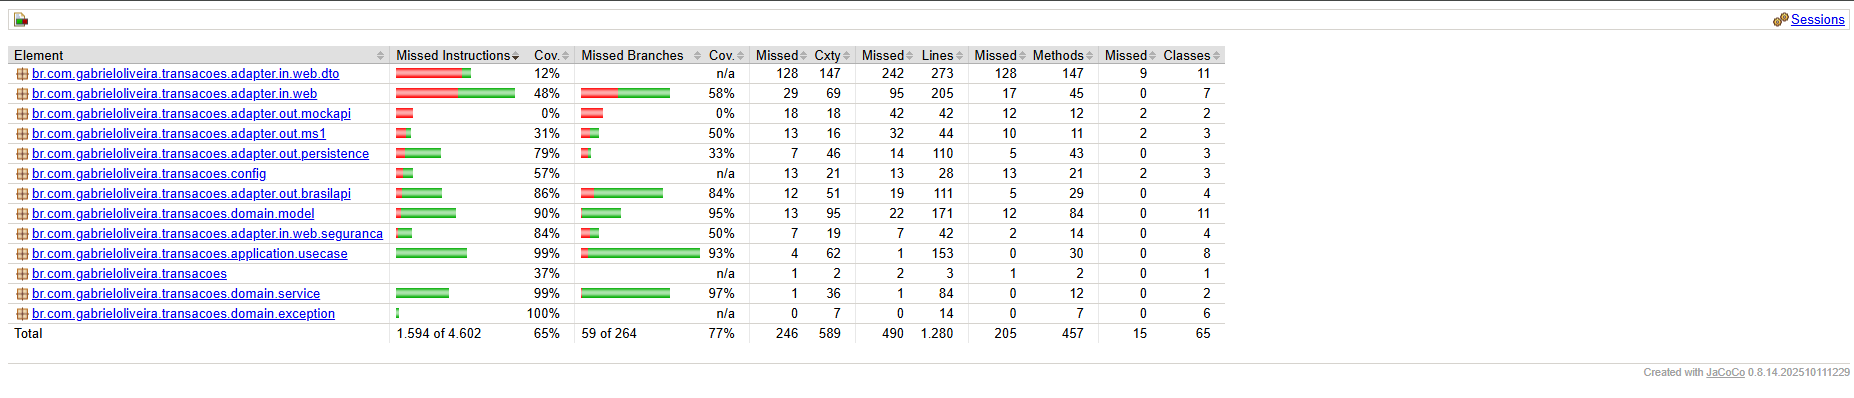
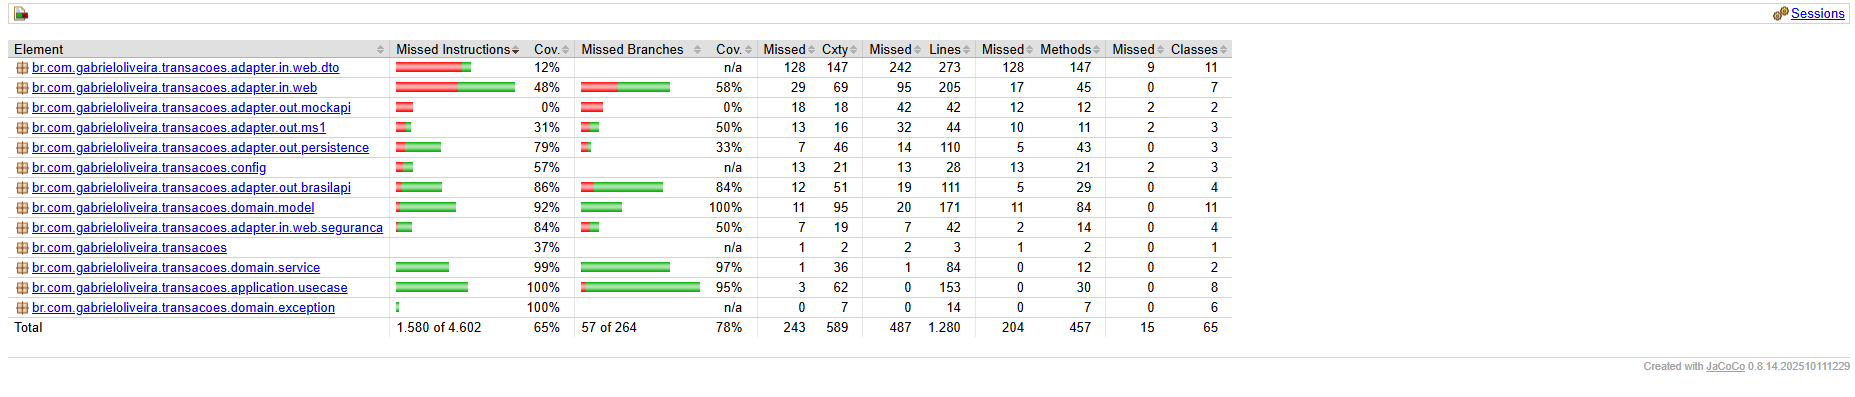
test: revisao da fase 14 com testes que faltavam e cobertura minima no build
- estorno: teste da regra "estorno nao pode ser estornado" e mensagem conferida
  no teste da transacao rejeitada (as tres regras lancam a mesma excecao)
- testes da conversao de moeda (Cotacao) e dos tipos de transacao (saida e inverso)
- jacoco check: o verify falha se dominio ou casos de uso ficarem abaixo de 80% das linhas
- readme e print do ms-transacoes atualizados

Changed region(s): [[0.0, 0.0, 1.0, 0.8463], [0.8608, 0.9068, 1.0, 0.9673]]

diff --git a/ms-transacoes/src/test/java/br/com/gabrieloliveira/transacoes/domain/model/CotacaoTest.java b/ms-transacoes/src/test/java/br/com/gabrieloliveira/transacoes/domain/model/CotacaoTest.java
@@ -1,0 +1,38 @@
+package br.com.gabrieloliveira.transacoes.domain.model;
+
+import org.junit.jupiter.api.Test;
+
+import java.math.BigDecimal;
+import java.time.LocalDate;
+
+import static org.junit.jupiter.api.Assertions.assertEquals;
+
+// conversao de reais para dolar/euro, usada para mostrar o valor da transacao nas outras moedas (pedido 3)
+class CotacaoTest {
+
+    private static final LocalDate DIA = LocalDate.of(2026, 11, 5);
+
+    @Test
+    void converteReaisParaAMoedaComDuasCasas() {
+        // dado: 1 dolar custa 5,4321 reais
+        Cotacao dolar = new Cotacao("USD", new BigDecimal("5.4321"), DIA);
+
+        // quando: 100 reais em dolar
+        BigDecimal emDolar = dolar.converterDeReais(new BigDecimal("100.00"));
+
+        // entao: 100 / 5,4321 = 18,4091... -> 18,41
+        assertEquals(new BigDecimal("18.41"), emDolar);
+    }
+
+    @Test
+    void empateNoArredondamentoVaiParaOParMaisProximo() {
+        // HALF_EVEN ("arredondamento do banqueiro"): quando cai exatamente no meio,
+        // arredonda para o numero par; assim, em muitas contas, os arredondamentos se compensam
+        Cotacao moeda = new Cotacao("USD", new BigDecimal("10"), DIA);
+
+        // 1,25 / 10 = 0,125 -> 0,12 (o 2 ja e par)
+        assertEquals(new BigDecimal("0.12"), moeda.converterDeReais(new BigDecimal("1.25")));
+        // 1,35 / 10 = 0,135 -> 0,14 (sobe para o 4, que e par)
+        assertEquals(new BigDecimal("0.14"), moeda.converterDeReais(new BigDecimal("1.35")));
+    }
+}

diff --git a/ms-transacoes/src/test/java/br/com/gabrieloliveira/transacoes/application/usecase/EstornarTransacaoServiceTest.java b/ms-transacoes/src/test/java/br/com/gabrieloliveira/transacoes/application/usecase/EstornarTransacaoServiceTest.java
@@ -83,7 +83,25 @@ class EstornarTransacaoServiceTest {
         rejeitada.rejeitar("saldo insuficiente");
         when(transacaoRepositoryPort.buscarPorId(10L)).thenReturn(Optional.of(rejeitada));
 
-        assertThrows(RegraNegocioException.class, () -> service.estornar(10L, DONO));
+        // confere a mensagem tambem: as tres regras lancam a mesma excecao,
+        // e sem a mensagem o teste passaria mesmo se fosse outra regra barrando
+        RegraNegocioException erro = assertThrows(RegraNegocioException.class, () -> service.estornar(10L, DONO));
+        assertEquals("so transacoes aprovadas podem ser estornadas", erro.getMessage());
+        verify(criarTransacaoUseCase, never()).criar(any());
+    }
+
+    @Test
+    void umEstornoNaoPodeSerEstornado() {
+        // dado: a transacao 10 e ela mesma um estorno (aponta para a transacao original 5)
+        Transacao estorno = compraAprovada();
+        estorno.setTipo(TipoTransacao.DEPOSITO);
+        estorno.setTransacaoOriginalId(5L);
+        when(transacaoRepositoryPort.buscarPorId(10L)).thenReturn(Optional.of(estorno));
+
+        // quando / entao
+        RegraNegocioException erro = assertThrows(RegraNegocioException.class, () -> service.estornar(10L, DONO));
+        assertEquals("um estorno nao pode ser estornado; registre uma nova transacao", erro.getMessage());
+        verify(criarTransacaoUseCase, never()).criar(any());
     }
 
     @Test

diff --git a/ms-transacoes/src/test/java/br/com/gabrieloliveira/transacoes/domain/model/TipoTransacaoTest.java b/ms-transacoes/src/test/java/br/com/gabrieloliveira/transacoes/domain/model/TipoTransacaoTest.java
@@ -1,0 +1,31 @@
+package br.com.gabrieloliveira.transacoes.domain.model;
+
+import org.junit.jupiter.api.Test;
+
+import static org.junit.jupiter.api.Assertions.assertEquals;
+import static org.junit.jupiter.api.Assertions.assertFalse;
+import static org.junit.jupiter.api.Assertions.assertTrue;
+
+class TipoTransacaoTest {
+
+    @Test
+    void soODepositoNaoESaida() {
+        // saida = passa pela checagem de saldo e limites
+        assertFalse(TipoTransacao.DEPOSITO.isSaida());
+        assertTrue(TipoTransacao.RETIRADA.isSaida());
+        assertTrue(TipoTransacao.TRANSFERENCIA.isSaida());
+        assertTrue(TipoTransacao.COMPRA.isSaida());
+    }
+
+    @Test
+    void estornoDeUmaSaidaDevolveODinheiroComoDeposito() {
+        assertEquals(TipoTransacao.DEPOSITO, TipoTransacao.RETIRADA.inverso());
+        assertEquals(TipoTransacao.DEPOSITO, TipoTransacao.TRANSFERENCIA.inverso());
+        assertEquals(TipoTransacao.DEPOSITO, TipoTransacao.COMPRA.inverso());
+    }
+
+    @Test
+    void estornoDeUmDepositoTiraODinheiroComoRetirada() {
+        assertEquals(TipoTransacao.RETIRADA, TipoTransacao.DEPOSITO.inverso());
+    }
+}

diff --git a/README.md b/README.md
@@ -15,12 +15,14 @@ mvnw.cmd clean verify
 
 O relatório fica em `target/site/jacoco/index.html` (abra no navegador).
 
+O build também confere a cobertura: se o domínio ou os casos de uso ficarem com menos de 80% das linhas testadas, o `verify` falha e mostra qual pacote ficou abaixo.
+
 Cobertura de linhas alcançada:
 
 | Microsserviço | Domínio | Casos de uso | Total | Testes |
 |---|---|---|---|---|
 | ms-usuarios | 87,0% | 100% | 66,6% | 83 |
-| ms-transacoes | 91,4% | 99,3% | 61,7% | 118 |
+| ms-transacoes | 92,2% | 100% | 62,0% | 124 |
 
 A tabela acima conta linhas. Os relatórios abaixo mostram também instruções (coluna "Cov." da esquerda) e ramos (`if`/`else`, coluna "Cov." da direita); por isso os totais aparecem um pouco diferentes.
 
